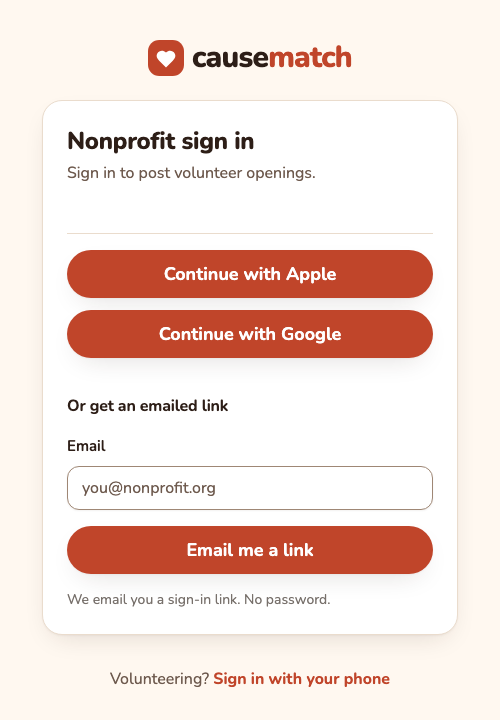
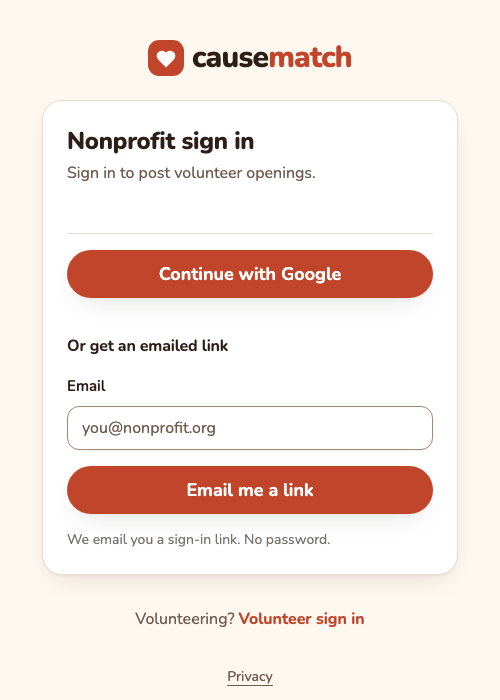
Admin guide: follow review, rebased onto the emailed-link sign-in
Describes the sign-in confirm page and its warnings, suspensions by email and
Google/Apple (not phone), the deletion hashes, the staff Google/Apple condition,
whole-account coordinator removal and immediate Decline. Retakes the sign-in
screenshot from main, adds the confirm page, and drops the real first name.

diff --git a/docs/ADMIN_GUIDE.md b/docs/ADMIN_GUIDE.md
@@ -1,8 +1,10 @@
 # Causematch admin guide
 
-A short how-to for the person running the beta (Katie, this is for you). You don't need to be technical: everything below happens in a web browser, except a few things only the **operator** can do. The operator is whoever deploys and looks after the Causematch server; each of those steps names the command, so you can paste it into a message.
+A short how-to for the admin running the beta. You don't need to be technical: everything below happens in a web browser, except a few things only the **operator** can do. The operator is whoever deploys and looks after the Causematch server; each of those steps names the command, so you can paste it into a message.
 
 The screenshots use demo data: invented organizations and example.org addresses.
+
+This guide is for the live (production) site. The **preview** is demo-only: it accepts only demo addresses, so a real address gets no link there, and the demo admin's link is in the server log instead of an email. Don't approve real claims on the preview.
 
 Nothing tells you when something new arrives. **No email or text goes to admins** when a nonprofit asks for access or someone files a report, so look at the Claims and Reports tabs every day or two.
 
@@ -19,10 +21,10 @@ An admin can see the admin pages and nothing else: the volunteer pages and the n
 Only the operator can add an admin. They run this against the live app (use your own address and name):
 
 ```sh
-uv run python scripts/add_admin.py --email admin@example.org --name "Katie"
+uv run python scripts/add_admin.py --email admin@example.org --name "Your Name"
 ```
 
-It prints `admin@example.org is an admin`. To take access away (you are signed out at once):
+It prints `admin@example.org is an admin (profile 2)`; the number is just an internal id. To take access away (you are signed out at once):
 
 ```sh
 uv run python scripts/remove_admin.py --email admin@example.org
@@ -34,14 +36,24 @@ There is no password. You get a link by email.
 
 1. Open `/org/login` on the Causematch site. This is the **nonprofit** sign-in page, and it is the one admins use too.
 2. Type your admin email address and tap **Email me a link**.
-3. Open the email "Your Causematch sign-in link" and tap the link. It works **once** and expires after **15 minutes**.
-4. On the page that opens, tap **Sign in**. You land on the Admin page.
+3. Open the email "Your Causematch sign-in link" and tap the link. It works **once** and expires after **15 minutes**. Only the **newest** link works: asking again cancels the one before.
+4. A confirm page opens. Check that it says **Sign in as** and your own address, then tap **Sign in**. You land on the Admin page.
 
 ![The nonprofit sign-in page](assets/admin/org-login.png)
 
-The page always answers "If that address belongs to a coordinator, a sign-in link is on its way", whether or not the address is known. That is on purpose, so strangers can't find out who has an account. If no email comes, see [When something's off](#6-when-somethings-off).
+#### The confirm page and its warnings
 
-If Google or Apple sign-in is switched on, you can use it instead, as long as the email on your Google or Apple account is the same one you were added with.
+The link only shows you this page; nothing happens until you tap **Sign in**. That is so someone can't sign you in to *their* account by sending you a link.
+
+![The confirm page, with the "didn't ask for this link" warning](assets/admin/sign-in-confirm.png)
+
+- **"This browser didn't ask for this link. If someone sent it to you, stop here: continuing would sign you in to their account."** This is expected when you asked for the link in one browser or on one device and opened it in another (you requested it on your laptop and tapped it on your phone, say). If you asked for it, carry on. If you didn't ask for it, don't tap Sign in.
+- **"This browser is signed in to another account. Continuing signs it out."** Tapping Sign in swaps that account for the one named on the page.
+- **"That sign-in link has expired or was already used. Ask for a new one."** The link is older than 15 minutes, has been used, or a newer link replaced it. Go back to `/org/login` and ask again.
+
+The sign-in page always answers "If that address belongs to a coordinator, a sign-in link is on its way", whether or not the address is known. That is on purpose, so strangers can't find out who has an account. If no email comes, see [When something's off](#6-when-somethings-off).
+
+A **Continue with Google** (or Apple) button shows only when that sign-in is switched on. It works for you only when the email on that account is the one you were added with **and** Google or Apple itself hosts that mailbox: a Gmail or Google Workspace address for Google, an iCloud address for Apple. For any other address, such as a nonprofit's own domain on another mail service, the button sends you an emailed link instead.
 
 ![The Admin page, with the tabs along the top](assets/admin/admin-home.png)
 
@@ -59,6 +71,8 @@ Nobody gets a nonprofit account by signing up. They ask, and an admin says yes. 
 2. They find their organization by typing its name (from IRS records) or by typing its **EIN**, then fill in the organization's name, their own name, their email and, optionally, a phone number.
 3. They tick **I'm authorized to represent this organization** and tap **Request access**.
 4. They see "Request received". They get no email at this point, and the page says the same thing whatever the EIN, so it never reveals which organizations exist.
+
+Heads-up: that page tells them "If it is approved, a sign-in link will be emailed to the address you gave", but the approval email does **not** contain a sign-in link. It tells them to go to `/org/login` and ask for one. If a coordinator writes to say they got no link, this is why.
 
 ![The claim form a coordinator fills in](assets/admin/claim-form.png)
 
@@ -90,19 +104,21 @@ Approving gives a stranger the right to post openings, accept volunteers and cha
 - **Approve.** Tap it. If the card has a checkbox, tick it first:
   - *Yes, approve for (name)* appears when the typed name differs from the IRS name. If you tap Approve without it, nothing is approved and the card explains: "IRS records name this EIN '...', not what they typed. Check it's right, tick ..., then tap Approve again."
   - *Yes, add them too (the people above can already sign in)* appears when the organization already has someone who can sign in. This is how you add a second coordinator ([see below](#a-nonprofit-needs-a-second-coordinator)).
-- **Decline.** Tap it. The person gets a short, neutral email ("not approved"), with no reason and none of what they typed.
+- **Decline.** Tap it. It happens **at once**: there is no "are you sure?" and no way to undo it. The person gets a short, neutral email ("not approved"), with no reason and none of what they typed. If they should have been approved, they have to file a new claim (up to 3 a day per email address).
 
-If the organization is **new to Causematch**, Approve fetches it from IRS records first. That can fail, and nothing changes when it does:
+If the organization is **new to Causematch**, the first tap on Approve fetches it from IRS records. If the IRS name differs from what the person typed, you may then get the "tick ... then tap Approve again" message: tick the box and tap Approve a second time. The fetch can also fail, and then nothing changes:
 
 - "We couldn't reach the IRS records (ProPublica)...": tap Approve again in a minute.
 - "Too many IRS lookups this hour": try later. Lookups are limited to 30 an hour for all admins together.
 - "Can't add this organization: ...": Causematch only takes organizations in Los Angeles County whose type of work fits one of its causes. Decline it, or ask the operator for help.
 
-A green banner confirms the decision: "Approved. We emailed them a link to sign in." or "Declined. We let them know by email." If the email didn't go out, the banner says so ("Approved, but the email didn't send..."). The decision still stands. Tell the person yourself that they can sign in at `/org/login` with the email they used.
+Approve can also be refused with a message on the card: the organization is **deactivated** (the card has no Approve button, only Decline), the address belongs to a **suspended coordinator**, or the address is an **admin's** (one address, one role). Decline those.
+
+A green banner confirms the decision: "Approved. We emailed them a link to sign in." or "Declined. We let them know by email." If the email didn't go out, the banner says so ("Approved, but the email didn't send..." or "Declined, but the email to them didn't send."). The decision still stands. Tell the person yourself; after an approval they can sign in at `/org/login` with the email they used.
 
 ### What the coordinator gets
 
-- An email, "You're approved on Causematch", with a link to `/org/login`. The email has no sign-in link itself. They type their email address there and Causematch sends the one-time sign-in link, as in section 1.
+- An email, "You're approved on Causematch", with a link to `/org/login`. The email has no sign-in link itself (see the heads-up above). They type their email address there and Causematch sends the one-time sign-in link, as in section 1.
 - Access to their organization: they are its **owner** if it had no owner who can sign in, otherwise a **coordinator**.
 - A **verified** organization: approving a claim also verifies the organization if it wasn't ([section 3](#3-verifying-a-nonprofit)).
 
@@ -123,14 +139,14 @@ Two ways an organization becomes verified:
 
 By hand:
 
-1. Open **Orgs**. Each organization shows **Verified**, **Not verified** or **Deactivated**, and its EIN.
-2. Type the organization's EIN (nine digits, like `53-0196605`) in its box and tap **Look up**.
+1. Open **Orgs**. Each organization shows **Verified**, **Not verified** or **Deactivated**, and its EIN (or "No EIN yet").
+2. Type the organization's EIN (nine digits, like `99-0000006`) in its box and tap **Look up**. The grey number you see in an empty box is only an example of how an EIN looks, not a real suggestion for that organization.
 3. Causematch asks ProPublica and shows what it found: "ProPublica: *name*, *city*, *state* (EIN ...)". Check that this is the right organization.
 4. Tap **Approve**.
 
 If something is off you will see a message instead: "An EIN is nine digits", "ProPublica has no nonprofit with that EIN", "Try again in a minute", or "another org already has that EIN".
 
-(The operator can do the same with `uv run python scripts/verify_org.py --ein 53-0196605 --org-id 1 --approve`.)
+(The operator can do the same with `uv run python scripts/verify_org.py --ein 99-0000006 --org-id 1 --approve`.)
 
 ---
 
@@ -149,7 +165,7 @@ What each button does:
 | Button | Shows on | What it does |
 |---|---|---|
 | **Dismiss** | every report | Closes this report. Nothing else changes. |
-| **Suspend user** | a report about a volunteer | The person **can't sign in**, every device they are signed in on is signed out, and their pending and accepted matches are withdrawn (future shifts cancelled). Every open report about them is closed as acted on. You can't suspend an admin. |
+| **Suspend user** | a report about a volunteer | The person **can't sign in**, every device they are signed in on is signed out, and their pending and accepted matches are withdrawn (future shifts cancelled). Every open report about them is closed as acted on. |
 | **Remove photo** | a report about a volunteer who has a photo | Deletes their photo (they can add another). This report is closed; others about them stay open. |
 | **Deactivate org** | a report about a nonprofit | The organization's openings close, pending matches are declined, accepted matches withdrawn, future shifts cancelled, and it leaves every deck and can't post, accept, schedule or message. Every open report about it is closed. |
 
@@ -157,12 +173,12 @@ Things to know before you tap:
 
 - **Suspending and deactivating can't be undone from the admin pages.** There is no "un-suspend" or "reactivate" button. Ask the operator if you got it wrong.
 - **The person isn't told.** Causematch sends no email or text for a suspension.
-- A volunteer who deletes their account after being suspended **stays suspended**: if the same phone number or Google or Apple account signs up again, the suspension and blocks come back with it.
+- A suspension follows the person's **email address** (a `+tag` or Gmail dots don't get around it) and their **Google or Apple account**, not a phone number: phones are only used for texts now. Even after they delete their account, a suspended person who signs up again with that address or account is refused.
 - If the card says "Already suspended" or "Already deactivated", the earlier action already covers it: Dismiss it.
 
 ### One person, several accounts
 
-**Suspend every account on the same mailbox.** A suspension belongs to a single account. It does **not** spread to other live accounts that already share the person's email address, so if you suspend one and leave the other, they can carry on under the other. If you learn that a person has more than one account (the reporter may tell you, or the operator may spot it), suspend each of them.
+**Suspend every account on the same mailbox.** A suspension belongs to a single account. It does **not** spread to other live accounts that already share the person's email address, so if you suspend one and leave the other, they can carry on under the other. Once one account is suspended, emailed links stop coming for that mailbox, but a separate Google or Apple account keeps working until it is suspended too. If you learn that a person has more than one account (the reporter may tell you, or the operator may spot it), suspend each of them.
 
 Suspend lives on a report, and the queue shows only first names. So for the second account, ask the reporter to report it too from the match they have with it, or ask the operator which accounts share the address. Then tap **Suspend user** on each report.
 
@@ -170,9 +186,7 @@ Suspend lives on a report, and the queue shows only first names. So for the seco
 
 Open **Blocks**. A block is one side shutting the other out: a volunteer blocking a nonprofit ("*Maya* (volunteer) blocked *Westside Pantry Collective*") or a nonprofit blocking a volunteer ("*Westside Pantry Collective* blocked *Jordan*").
 
-![The Blocks page](assets/admin/blocks.png)
-
-A blocked nonprofit's openings leave that volunteer's deck, their matches are ended and their chat becomes read-only. Only an admin can undo a block: tap **Unblock**. The matches the block ended **stay ended**; the two sides can match again from scratch.
+When a volunteer blocks a nonprofit, its openings leave that volunteer's deck, their matches are ended and their chat becomes read-only. When a nonprofit blocks a volunteer, the volunteer's waiting likes there are declined, an accepted match is closed, their future likes are dropped without telling them, and the chat becomes read-only. Only an admin can undo a block: tap **Unblock**. The matches the block ended **stay ended**; the two sides can match again from scratch.
 
 ---
 
@@ -200,14 +214,14 @@ The columns, in plain words:
 | Org replied < 48h | How often a nonprofit answered a like within two days. |
 | Median reply (h) | The middle time, in hours, a nonprofit took to answer. |
 | Pending > 48h | Likes still waiting after two days. A nonprofit to nudge. |
-| First shift done | Of the first shifts with a result, how many were completed. |
+| First shift done | Of the volunteers whose first shift has a result, how many completed it. |
 | First shift unmarked | First shifts that have happened but nobody has marked as done or a no-show. Ask the coordinator. |
 | Accepted, no shift | Accepted matches with no shift at all (the volunteer was accepted but nothing was scheduled). |
 | Withdrew before 1st shift | Accepted, then withdrawn before any shift. Counts as not showing up. |
 | Unmarked past shifts | Every started shift still unmarked, not only first ones. |
-| Repeat (2+ shifts) | Volunteers with two or more completed shifts, among those whose first shift was **at least 14 days ago**. |
+| Repeat (2+ shifts) | Volunteers with two or more completed shifts, among those whose first completed shift was **at least 14 days ago**. |
 | Repeat, same org | The same, with both shifts at one nonprofit. |
-| Eligible for repeat | How many volunteers are old enough (14+ days) to count in the repeat rates. |
+| Eligible for repeat | Shown as "of N": how many of the volunteers with a completed shift are old enough (first completed shift 14+ days ago) to count in the repeat rates. |
 | No-show rate | No-shows out of completed shifts plus no-shows. |
 
 "Empty decks" counts times a volunteer's filters left nothing to swipe. **Last-minute calls** shows urgent requests posted, how many were filled, the median minutes to fill and the no-show rate on those fills against ordinary shifts.
@@ -220,18 +234,20 @@ Remember: **only a volunteer's first shift is scheduled automatically.** The rep
 
 ### A coordinator never got their sign-in link
 
-1. Ask them to check spam and to wait a couple of minutes. The link is valid 15 minutes and works once.
+1. Ask them to check spam and to wait a couple of minutes. The link is valid 15 minutes and works once, and only the newest link works, so tell them not to click an older email after asking again.
 2. Make sure they typed the address **exactly** as in their claim or approval. Causematch says the same thing to every address, so it can't tell them it doesn't match.
-3. They can ask again at `/org/login`, but each address is limited to **5 links an hour**. Past that, wait an hour.
-4. Only a **live coordinator of an organization**, or an admin, receives a link. Not these: a request still waiting on the Claims page, one you declined, a suspended or deleted account, and an Apple "Hide my email" relay address (it never matches the email on file: they should use their real address, or the emailed link).
+3. They can ask again at `/org/login`, but there are limits: 5 links an hour from one device for an address, and 20 a day for an address (`+tags` and Gmail dots count as the same address). If they see "Too many tries", they should wait, up to an hour.
+4. Only a **live coordinator of an organization**, or an admin, receives a link. Not these: a request still waiting on the Claims page, one you declined, or a suspended or deleted account.
+   - An Apple "Hide my email" relay address never matches the email on file: they should use their real address, or the emailed link.
+   - A link that opens a page saying it "has expired or was already used" was older than 15 minutes, already used, or replaced by a newer one.
 5. Check the Claims page: if their request is still there, they are not approved yet.
 6. If the banner said "Approved, but the email didn't send", no email went to them at all. Tell them to sign in at `/org/login`.
 7. Still stuck: ask the operator to look at the email log.
 
 ### Someone wants their account deleted
 
-- **A volunteer** can do it themselves: **Me**, then **Your profile**, then **Delete my account** at the bottom (they confirm once). It erases their name, phone, email and location, withdraws their matches and cancels future shifts, and replaces their chat messages with "[message removed]". The answers behind the pilot's statistics stay, without a name. Reports they filed or that name them stay too. If they were blocked, reported or suspended, a one-way hash of their phone number is kept so a suspension can't be dodged by re-registering.
-- **A coordinator or an admin** can't do it themselves: ask the operator. For a coordinator: `uv run python scripts/remove_coordinator.py --email coordinator@example.org` (they are removed from their organizations and signed out at once). For an admin: `scripts/remove_admin.py`, as in section 1.
+- **A volunteer** can do it themselves: **Me**, then **Your profile**, then **Delete my account** at the bottom (they confirm once). It erases their name, phone, email and location, withdraws their matches and cancels future shifts, and replaces their chat messages with "[message removed]". The answers behind the pilot's statistics stay, without a name. Reports they filed or that name them stay too. If they were blocked, reported or suspended, Causematch keeps one-way hashes (not the values) of their email address, their phone number and any Google or Apple account, so a suspension or block can't be dodged by signing up again.
+- **A coordinator or an admin** can't do it themselves: ask the operator. For a coordinator: `uv run python scripts/remove_coordinator.py --email coordinator@example.org` (this deletes the **whole account**: they are removed from **every** organization they belonged to, signed out at once, and their name and email erased; their chat messages stay as the nonprofit's record). For an admin: `scripts/remove_admin.py`, as in section 1.
 - Anything else they ask to see or fix: the privacy page tells them to write to the contact address.
 
 ### A nonprofit needs a second coordinator
@@ -245,9 +261,9 @@ Two ways:
    uv run python scripts/add_coordinator.py --email second@example.org --org-id 1 --name "Maria Lopez, volunteer coordinator"
    ```
 
-   (`--org-id` is the organization's number. Add `--role owner` to make them an owner.)
+   (`--org-id` is the organization's number, which admins can't see in the app: give the operator the organization's **name and EIN** and they will find it. Add `--role owner` to make them an owner.)
 
-To remove a coordinator from an organization, the operator runs `scripts/remove_coordinator.py` as above.
+To remove a coordinator, the operator runs `scripts/remove_coordinator.py` as above. That removes the whole account from every organization; there is no script to take someone off just one.
 
 ### Quick reference
 
